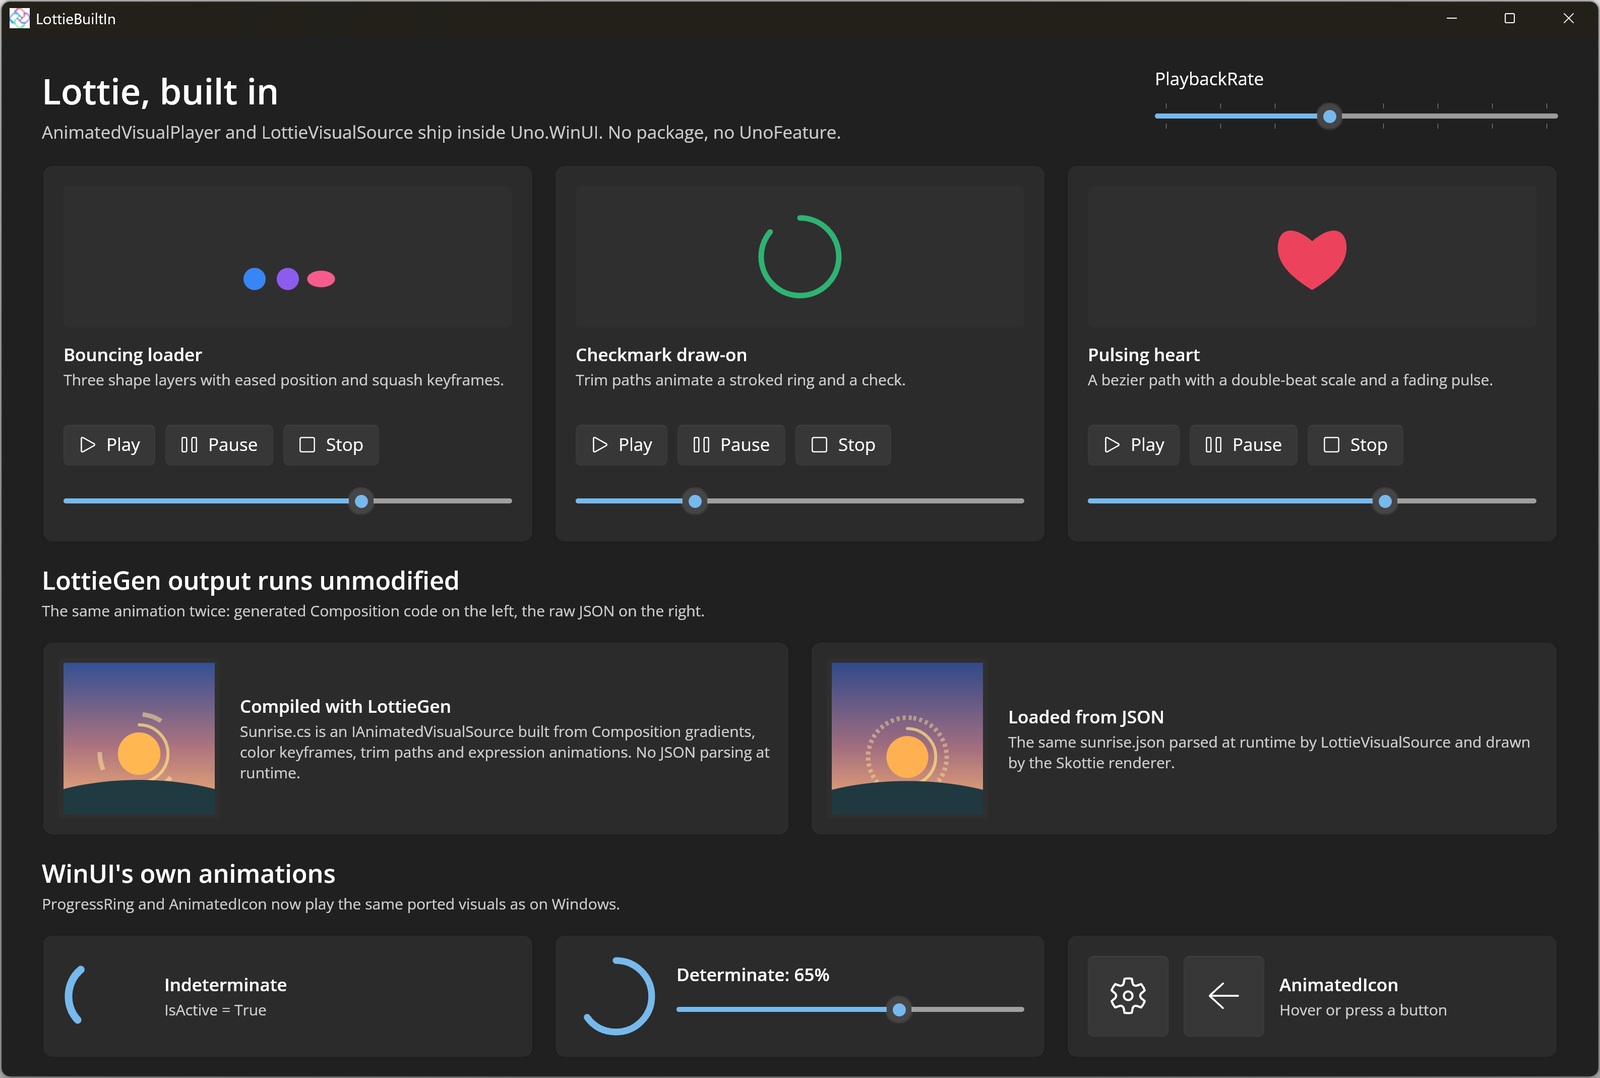
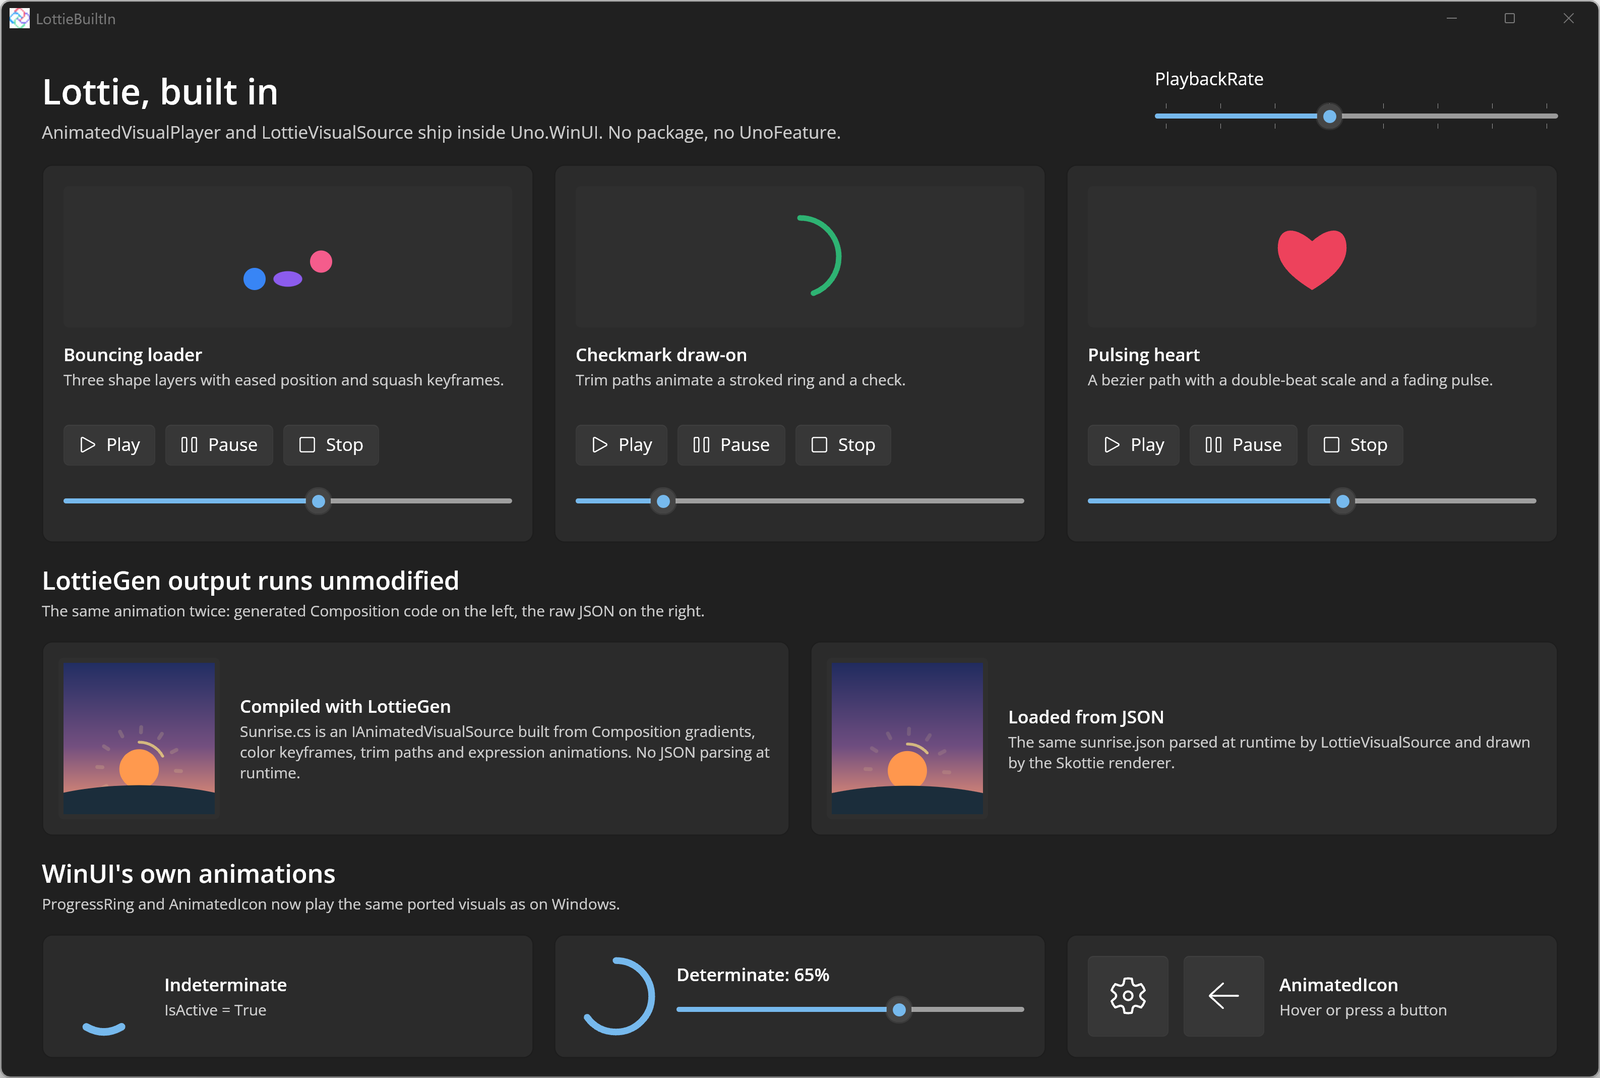
fix(LottieBuiltIn): Use a sunrise animation that renders identically from LottieGen and JSON
Replaces the dashed ray ring with rotated ray groups and keeps trim ends above 0, avoiding
current Uno Composition (dash scaling, TrimEnd default) and Skottie (dash offset) differences.

Claude-Session: https://claude.ai/code/session_013yZfe9CjkLZqGRwjwfXyQ7

diff --git a/UI/LottieBuiltIn/src/LottieBuiltIn/AnimatedVisuals/Sunrise.cs b/UI/LottieBuiltIn/src/LottieBuiltIn/AnimatedVisuals/Sunrise.cs
@@ -9,7 +9,7 @@
 //           LottieGen -Language CSharp -Namespace LottieBuiltIn.AnimatedVisuals -Public -WinUIVersion 3.0 -InputFile sunrise.json
 //       
 //       Input file:
-//           sunrise.json (5952 bytes created 20:13+02:00 Oct 10 2026)
+//           sunrise.json (9774 bytes created 20:13+02:00 Oct 10 2026)
 //       
 //       LottieGen source:
 //           http://aka.ms/Lottie
@@ -21,7 +21,7 @@
 // ____________________________________
 // |       Object stats       | Count |
 // |__________________________|_______|
-// | All CompositionObjects   |    78 |
+// | All CompositionObjects   |   102 |
 // |--------------------------+-------|
 // | Expression animators     |     1 |
 // | KeyFrame animators       |    15 |
@@ -36,8 +36,8 @@
 // | ContainerVisuals         |     1 |
 // | ShapeVisuals             |     1 |
 // |--------------------------+-------|
-// | ContainerShapes          |     1 |
-// | CompositionSpriteShapes  |     5 |
+// | ContainerShapes          |     2 |
+// | CompositionSpriteShapes  |    16 |
 // |--------------------------+-------|
 // | Brushes                  |     5 |
 // | Gradient stops           |     3 |
@@ -51,7 +51,7 @@ using Windows.UI;
 
 namespace LottieBuiltIn.AnimatedVisuals
 {
-    // Name:        Sunrise
+    // Name:        safe
     // Frame rate:  60 fps
     // Frame count: 120
     // Duration:    2000.0 mS
@@ -142,10 +142,11 @@ namespace LottieBuiltIn.AnimatedVisuals
             CompositionColorGradientStop _animatedGradientStop_0_AlmostDarkSlateBlue_FF593F7F_to_AlmostDarkSlateBlue_FF593F7F;
             CompositionColorGradientStop _animatedGradientStop_0_AlmostMidnightBlue_FF191E4C_to_AlmostMidnightBlue_FF191E4C;
             CompositionColorGradientStop _animatedGradientStop_0_AlmostSalmon_FFF28C72_to_AlmostSalmon_FFF28C72;
-            CompositionContainerShape _containerShape;
+            CompositionContainerShape _containerShape_0;
+            CompositionContainerShape _containerShape_1;
             CompositionEllipseGeometry _ellipse_0;
             CompositionEllipseGeometry _ellipse_38;
-            CompositionSpriteShape _spriteShape_3;
+            CompositionRoundedRectangleGeometry _roundedRectangle_5x12;
             ContainerVisual _root;
             CubicBezierEasingFunction _cubicBezierEasingFunction_0;
             StepEasingFunction _holdThenStepEasingFunction;
@@ -289,8 +290,6 @@ namespace LottieBuiltIn.AnimatedVisuals
                 return result;
             }
 
-            // - - Layer aggregator
-            // - ShapeGroup: 
             // Color
             ColorKeyFrameAnimation ColorAnimation_TransparentAlmostKhaki_00FFEA99_to_TransparentAlmostKhaki_00FFEA99()
             {
@@ -323,8 +322,6 @@ namespace LottieBuiltIn.AnimatedVisuals
                 return result;
             }
 
-            // - Layer aggregator
-            // ShapeGroup:
             CompositionColorBrush AnimatedColorBrush_TransparentAlmostKhaki_00FFEA99_to_TransparentAlmostKhaki_00FFEA99()
             {
                 if (_animatedColorBrush_TransparentAlmostKhaki_00FFEA99_to_TransparentAlmostKhaki_00FFEA99 != null) { return _animatedColorBrush_TransparentAlmostKhaki_00FFEA99_to_TransparentAlmostKhaki_00FFEA99; }
@@ -370,15 +367,48 @@ namespace LottieBuiltIn.AnimatedVisuals
             }
 
             // Layer aggregator
-            CompositionContainerShape ContainerShape()
+            CompositionContainerShape ContainerShape_0()
             {
-                if (_containerShape != null) { return _containerShape; }
-                var result = _containerShape = _c.CreateContainerShape();
+                if (_containerShape_0 != null) { return _containerShape_0; }
+                var result = _containerShape_0 = _c.CreateContainerShape();
                 var shapes = result.Shapes;
                 // ShapeGroup:
-                shapes.Add(SpriteShape_1());
+                shapes.Add(SpriteShape_01());
                 // ShapeGroup:
-                shapes.Add(SpriteShape_2());
+                shapes.Add(SpriteShape_02());
+                return result;
+            }
+
+            // Layer aggregator
+            CompositionContainerShape ContainerShape_1()
+            {
+                if (_containerShape_1 != null) { return _containerShape_1; }
+                var result = _containerShape_1 = _c.CreateContainerShape();
+                var shapes = result.Shapes;
+                // ShapeGroup:  RotationDegrees:330
+                shapes.Add(SpriteShape_03());
+                // ShapeGroup:  RotationDegrees:300
+                shapes.Add(SpriteShape_04());
+                // ShapeGroup:  RotationDegrees:270
+                shapes.Add(SpriteShape_05());
+                // ShapeGroup:  RotationDegrees:240
+                shapes.Add(SpriteShape_06());
+                // ShapeGroup:  RotationDegrees:210
+                shapes.Add(SpriteShape_07());
+                // ShapeGroup:  RotationDegrees:180
+                shapes.Add(SpriteShape_08());
+                // ShapeGroup:  RotationDegrees:150
+                shapes.Add(SpriteShape_09());
+                // ShapeGroup:  RotationDegrees:120
+                shapes.Add(SpriteShape_10());
+                // ShapeGroup:  RotationDegrees:90
+                shapes.Add(SpriteShape_11());
+                // ShapeGroup:  RotationDegrees:60
+                shapes.Add(SpriteShape_12());
+                // ShapeGroup:  RotationDegrees:30
+                shapes.Add(SpriteShape_13());
+                // ShapeGroup:
+                shapes.Add(SpriteShape_14());
                 return result;
             }
 
@@ -416,16 +446,6 @@ namespace LottieBuiltIn.AnimatedVisuals
             }
 
             // - Layer aggregator
-            // ShapeGroup: 
-            // .EllipseGeometry
-            CompositionEllipseGeometry Ellipse_52()
-            {
-                var result = _c.CreateEllipseGeometry();
-                result.Radius = new Vector2(52F, 52F);
-                return result;
-            }
-
-            // - Layer aggregator
             // Offset:<100, 100>
             CompositionLinearGradientBrush LinearGradientBrush()
             {
@@ -451,9 +471,20 @@ namespace LottieBuiltIn.AnimatedVisuals
                 return result;
             }
 
+            // .RectangleGeometry
+            CompositionRoundedRectangleGeometry RoundedRectangle_5x12()
+            {
+                if (_roundedRectangle_5x12 != null) { return _roundedRectangle_5x12; }
+                var result = _roundedRectangle_5x12 = _c.CreateRoundedRectangleGeometry();
+                result.CornerRadius = new Vector2(2.5F, 2.5F);
+                result.Offset = new Vector2(-2.5F, -58F);
+                result.Size = new Vector2(5F, 12F);
+                return result;
+            }
+
             // Layer aggregator
             // ShapeGroup:
-            CompositionSpriteShape SpriteShape_0()
+            CompositionSpriteShape SpriteShape_00()
             {
                 // Offset:<100, 100>
                 var geometry = Rectangle_200();
@@ -463,7 +494,7 @@ namespace LottieBuiltIn.AnimatedVisuals
 
             // - Layer aggregator
             // ShapeGroup:
-            CompositionSpriteShape SpriteShape_1()
+            CompositionSpriteShape SpriteShape_01()
             {
                 var result = _c.CreateSpriteShape(Ellipse_38());
                 result.StrokeBrush = ColorBrush_SemiTransparentAlmostKhaki_B2FFE57F();
@@ -476,30 +507,135 @@ namespace LottieBuiltIn.AnimatedVisuals
 
             // - Layer aggregator
             // ShapeGroup:
-            CompositionSpriteShape SpriteShape_2()
+            CompositionSpriteShape SpriteShape_02()
             {
                 var result = _c.CreateSpriteShape(Ellipse_28());
                 result.FillBrush = AnimatedColorBrush_AlmostCoral_FFFF8C4C_to_AlmostCoral_FFFF8C4C();
                 return result;
             }
 
-            // Layer aggregator
-            // ShapeGroup:
-            CompositionSpriteShape SpriteShape_3()
+            // - Layer aggregator
+            // ShapeGroup:  RotationDegrees:330
+            CompositionSpriteShape SpriteShape_03()
             {
-                if (_spriteShape_3 != null) { return _spriteShape_3; }
-                var result = _spriteShape_3 = _c.CreateSpriteShape(Ellipse_52());
-                result.StrokeBrush = AnimatedColorBrush_TransparentAlmostKhaki_00FFEA99_to_TransparentAlmostKhaki_00FFEA99();
-                var strokeDashArray = result.StrokeDashArray;
-                strokeDashArray.Add(4F);
-                strokeDashArray.Add(14F);
-                result.StrokeThickness = 6F;
+                // Rotation:-30.0000193141719 degrees, Scale:<0.99999994, 0.99999994>
+                var geometry = RoundedRectangle_5x12();
+                var result = CreateSpriteShape(geometry, new Matrix3x2(0.866025209F, -0.500000298F, 0.500000298F, 0.866025209F, 0F, 0F), AnimatedColorBrush_TransparentAlmostKhaki_00FFEA99_to_TransparentAlmostKhaki_00FFEA99());;
+                return result;
+            }
+
+            // - Layer aggregator
+            // ShapeGroup:  RotationDegrees:300
+            CompositionSpriteShape SpriteShape_04()
+            {
+                // Rotation:-60.00001577364497 degrees
+                var geometry = RoundedRectangle_5x12();
+                var result = CreateSpriteShape(geometry, new Matrix3x2(0.499999762F, -0.866025567F, 0.866025567F, 0.499999762F, 0F, 0F), AnimatedColorBrush_TransparentAlmostKhaki_00FFEA99_to_TransparentAlmostKhaki_00FFEA99());;
+                return result;
+            }
+
+            // - Layer aggregator
+            // ShapeGroup:  RotationDegrees:270
+            CompositionSpriteShape SpriteShape_05()
+            {
+                // Rotation:-90 degrees
+                var geometry = RoundedRectangle_5x12();
+                var result = CreateSpriteShape(geometry, new Matrix3x2(0F, -1F, 1F, 0F, 0F, 0F), AnimatedColorBrush_TransparentAlmostKhaki_00FFEA99_to_TransparentAlmostKhaki_00FFEA99());;
+                return result;
+            }
+
+            // - Layer aggregator
+            // ShapeGroup:  RotationDegrees:240
+            CompositionSpriteShape SpriteShape_06()
+            {
+                // Rotation:-120.00000394341166 degrees
+                var geometry = RoundedRectangle_5x12();
+                var result = CreateSpriteShape(geometry, new Matrix3x2(-0.50000006F, -0.866025388F, 0.866025388F, -0.50000006F, 0F, 0F), AnimatedColorBrush_TransparentAlmostKhaki_00FFEA99_to_TransparentAlmostKhaki_00FFEA99());;
+                return result;
+            }
+
+            // - Layer aggregator
+            // ShapeGroup:  RotationDegrees:210
+            CompositionSpriteShape SpriteShape_07()
+            {
+                // Rotation:-150.00001187921234 degrees
+                var geometry = RoundedRectangle_5x12();
+                var result = CreateSpriteShape(geometry, new Matrix3x2(-0.866025507F, -0.499999821F, 0.499999821F, -0.866025507F, 0F, 0F), AnimatedColorBrush_TransparentAlmostKhaki_00FFEA99_to_TransparentAlmostKhaki_00FFEA99());;
+                return result;
+            }
+
+            // - Layer aggregator
+            // ShapeGroup:  RotationDegrees:180
+            CompositionSpriteShape SpriteShape_08()
+            {
+                // Rotation:-180 degrees
+                var geometry = RoundedRectangle_5x12();
+                var result = CreateSpriteShape(geometry, new Matrix3x2(-1F, 0F, -0F, -1F, 0F, 0F), AnimatedColorBrush_TransparentAlmostKhaki_00FFEA99_to_TransparentAlmostKhaki_00FFEA99());;
+                return result;
+            }
+
+            // - Layer aggregator
+            // ShapeGroup:  RotationDegrees:150
+            CompositionSpriteShape SpriteShape_09()
+            {
+                // Rotation:149.9999982188319 degrees
+                var geometry = RoundedRectangle_5x12();
+                var result = CreateSpriteShape(geometry, new Matrix3x2(-0.866025388F, 0.50000006F, -0.50000006F, -0.866025388F, 0F, 0F), AnimatedColorBrush_TransparentAlmostKhaki_00FFEA99_to_TransparentAlmostKhaki_00FFEA99());;
+                return result;
+            }
+
+            // - Layer aggregator
+            // ShapeGroup:  RotationDegrees:120
+            CompositionSpriteShape SpriteShape_10()
+            {
+                // Rotation:120.00000394341166 degrees
+                var geometry = RoundedRectangle_5x12();
+                var result = CreateSpriteShape(geometry, new Matrix3x2(-0.50000006F, 0.866025388F, -0.866025388F, -0.50000006F, 0F, 0F), AnimatedColorBrush_TransparentAlmostKhaki_00FFEA99_to_TransparentAlmostKhaki_00FFEA99());;
+                return result;
+            }
+
+            // - Layer aggregator
+            // ShapeGroup:  RotationDegrees:90
+            CompositionSpriteShape SpriteShape_11()
+            {
+                // Rotation:90 degrees
+                var geometry = RoundedRectangle_5x12();
+                var result = CreateSpriteShape(geometry, new Matrix3x2(0F, 1F, -1F, 0F, 0F, 0F), AnimatedColorBrush_TransparentAlmostKhaki_00FFEA99_to_TransparentAlmostKhaki_00FFEA99());;
+                return result;
+            }
+
+            // - Layer aggregator
+            // ShapeGroup:  RotationDegrees:60
+            CompositionSpriteShape SpriteShape_12()
+            {
+                // Rotation:60.000001971705764 degrees
+                var geometry = RoundedRectangle_5x12();
+                var result = CreateSpriteShape(geometry, new Matrix3x2(0.49999997F, 0.866025448F, -0.866025448F, 0.49999997F, 0F, 0F), AnimatedColorBrush_TransparentAlmostKhaki_00FFEA99_to_TransparentAlmostKhaki_00FFEA99());;
+                return result;
+            }
+
+            // - Layer aggregator
+            // ShapeGroup:  RotationDegrees:30
+            CompositionSpriteShape SpriteShape_13()
+            {
+                // Rotation:30.000001781168113 degrees
+                var geometry = RoundedRectangle_5x12();
+                var result = CreateSpriteShape(geometry, new Matrix3x2(0.866025388F, 0.5F, -0.5F, 0.866025388F, 0F, 0F), AnimatedColorBrush_TransparentAlmostKhaki_00FFEA99_to_TransparentAlmostKhaki_00FFEA99());;
+                return result;
+            }
+
+            // - Layer aggregator
+            // ShapeGroup:
+            CompositionSpriteShape SpriteShape_14()
+            {
+                var result = _c.CreateSpriteShape(RoundedRectangle_5x12());
+                result.FillBrush = AnimatedColorBrush_TransparentAlmostKhaki_00FFEA99_to_TransparentAlmostKhaki_00FFEA99();
                 return result;
             }
 
             // Layer aggregator
             // ShapeGroup:
-            CompositionSpriteShape SpriteShape_4()
+            CompositionSpriteShape SpriteShape_15()
             {
                 // Offset:<100, 150>
                 var geometry = Ellipse_0();
@@ -572,7 +708,6 @@ namespace LottieBuiltIn.AnimatedVisuals
             }
 
             // - Layer aggregator
-            // ShapeGroup: 
             // Rotation
             ScalarKeyFrameAnimation RotationAngleInDegreesScalarAnimation_0_to_90()
             {
@@ -587,14 +722,14 @@ namespace LottieBuiltIn.AnimatedVisuals
             // - ShapeGroup: 
             // .EllipseGeometry
             // TrimEnd
-            ScalarKeyFrameAnimation TrimEndScalarAnimation_0_to_0()
+            ScalarKeyFrameAnimation TrimEndScalarAnimation_0p005_to_0p005()
             {
                 // Frame 0.
-                var result = CreateScalarKeyFrameAnimation(0F, 0F, HoldThenStepEasingFunction());
+                var result = CreateScalarKeyFrameAnimation(0F, 0.00499999989F, HoldThenStepEasingFunction());
                 // Frame 60.
                 result.InsertKeyFrame(0.5F, 1F, CubicBezierEasingFunction_0());
                 // Frame 120.
-                result.InsertKeyFrame(1F, 0F, CubicBezierEasingFunction_0());
+                result.InsertKeyFrame(1F, 0.00499999989F, CubicBezierEasingFunction_0());
                 return result;
             }
 
@@ -605,12 +740,11 @@ namespace LottieBuiltIn.AnimatedVisuals
                 result.Size = new Vector2(200F, 200F);
                 var shapes = result.Shapes;
                 // Offset:<100, 100>
-                shapes.Add(SpriteShape_0());
-                shapes.Add(ContainerShape());
-                // ShapeGroup:
-                shapes.Add(SpriteShape_3());
+                shapes.Add(SpriteShape_00());
+                shapes.Add(ContainerShape_0());
+                shapes.Add(ContainerShape_1());
                 // Offset:<100, 150>
-                shapes.Add(SpriteShape_4());
+                shapes.Add(SpriteShape_15());
                 return result;
             }
 
@@ -688,12 +822,12 @@ namespace LottieBuiltIn.AnimatedVisuals
                 _animatedGradientStop_0_AlmostMidnightBlue_FF191E4C_to_AlmostMidnightBlue_FF191E4C.StartAnimation("Offset", OffsetScalarAnimation_0_to_0(), AnimationController_0());
                 _animatedGradientStop_0_AlmostSalmon_FFF28C72_to_AlmostSalmon_FFF28C72.StartAnimation("Color", ColorAnimation_AlmostSalmon_FFF28C72_to_AlmostSalmon_FFF28C72(), AnimationController_0());
                 _animatedGradientStop_0_AlmostSalmon_FFF28C72_to_AlmostSalmon_FFF28C72.StartAnimation("Offset", OffsetScalarAnimation_1_to_1(), AnimationController_0());
-                _containerShape.StartAnimation("Scale", ScaleVector2Animation(), AnimationController_0());
-                _containerShape.StartAnimation("Offset", OffsetVector2Animation(), AnimationController_0());
+                _containerShape_0.StartAnimation("Scale", ScaleVector2Animation(), AnimationController_0());
+                _containerShape_0.StartAnimation("Offset", OffsetVector2Animation(), AnimationController_0());
+                _containerShape_1.StartAnimation("RotationAngleInDegrees", RotationAngleInDegreesScalarAnimation_0_to_90(), AnimationController_0());
+                _containerShape_1.StartAnimation("Offset", OffsetVector2Animation(), AnimationController_0());
                 _ellipse_0.StartAnimation("Radius", RadiusVector2Animation(), AnimationController_0());
-                _ellipse_38.StartAnimation("TrimEnd", TrimEndScalarAnimation_0_to_0(), AnimationController_0());
-                _spriteShape_3.StartAnimation("RotationAngleInDegrees", RotationAngleInDegreesScalarAnimation_0_to_90(), AnimationController_0());
-                _spriteShape_3.StartAnimation("Offset", OffsetVector2Animation(), AnimationController_0());
+                _ellipse_38.StartAnimation("TrimEnd", TrimEndScalarAnimation_0p005_to_0p005(), AnimationController_0());
             }
 
             public void DestroyAnimations()
@@ -707,12 +841,12 @@ namespace LottieBuiltIn.AnimatedVisuals
                 _animatedGradientStop_0_AlmostMidnightBlue_FF191E4C_to_AlmostMidnightBlue_FF191E4C.StopAnimation("Offset");
                 _animatedGradientStop_0_AlmostSalmon_FFF28C72_to_AlmostSalmon_FFF28C72.StopAnimation("Color");
                 _animatedGradientStop_0_AlmostSalmon_FFF28C72_to_AlmostSalmon_FFF28C72.StopAnimation("Offset");
-                _containerShape.StopAnimation("Scale");
-                _containerShape.StopAnimation("Offset");
+                _containerShape_0.StopAnimation("Scale");
+                _containerShape_0.StopAnimation("Offset");
+                _containerShape_1.StopAnimation("RotationAngleInDegrees");
+                _containerShape_1.StopAnimation("Offset");
                 _ellipse_0.StopAnimation("Radius");
                 _ellipse_38.StopAnimation("TrimEnd");
-                _spriteShape_3.StopAnimation("RotationAngleInDegrees");
-                _spriteShape_3.StopAnimation("Offset");
             }
 
         }
